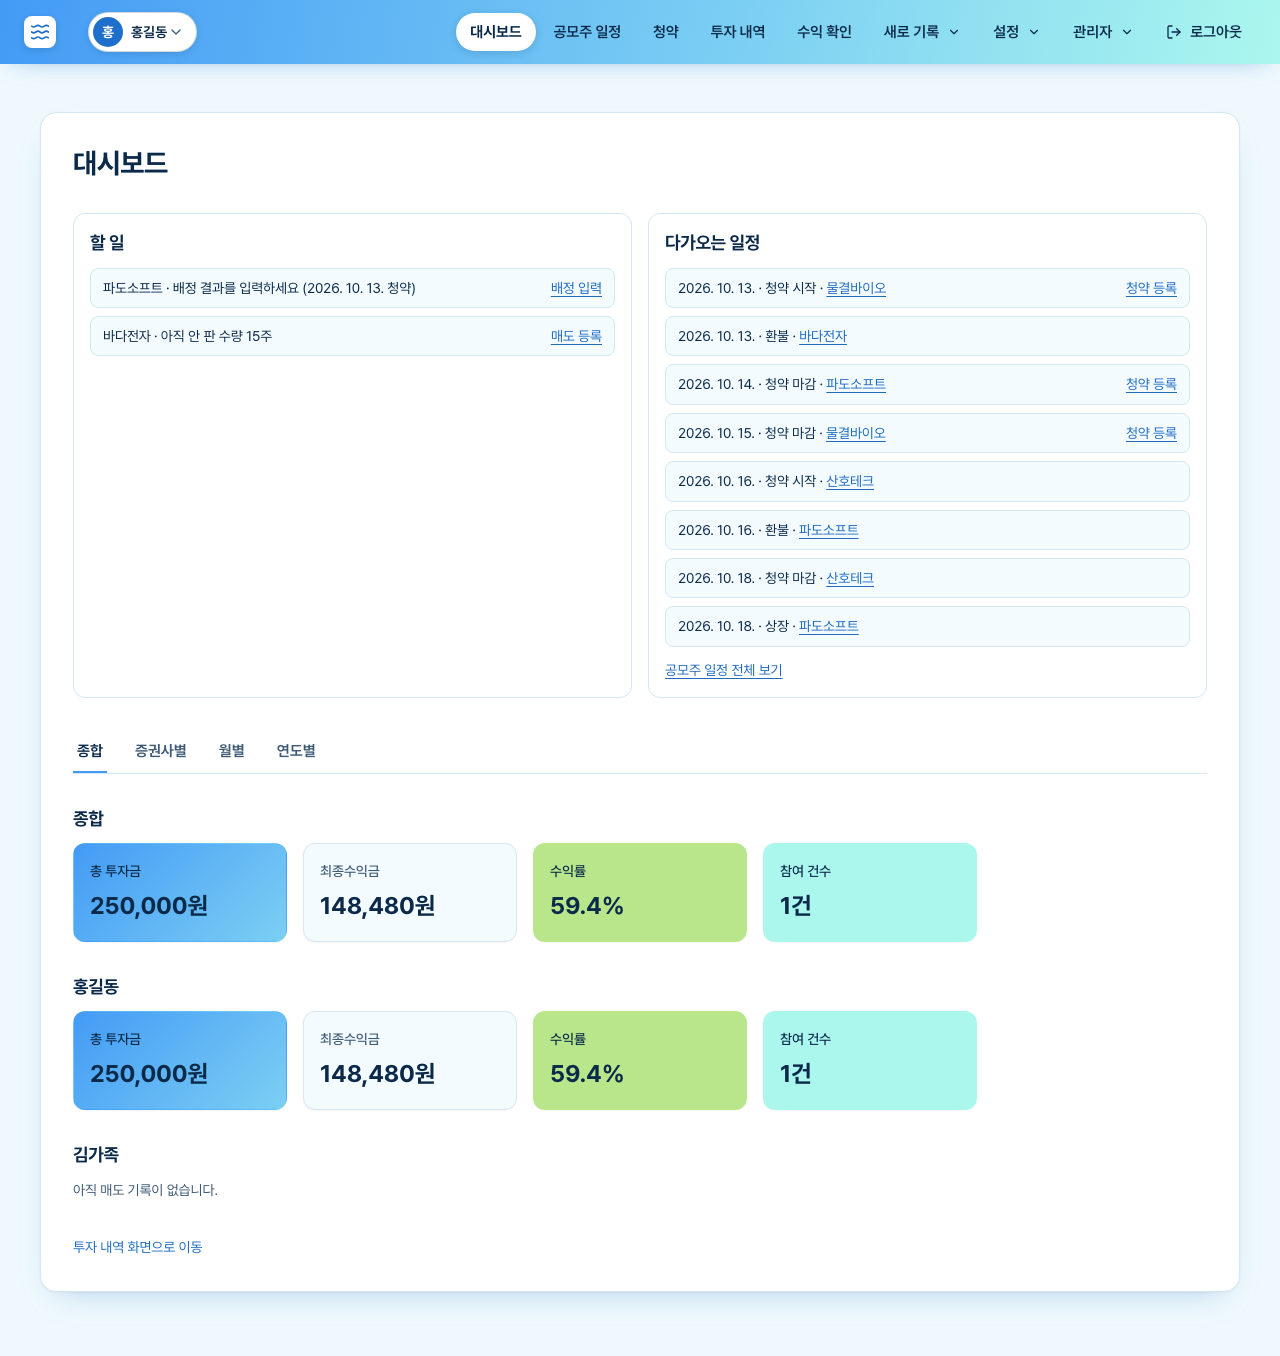
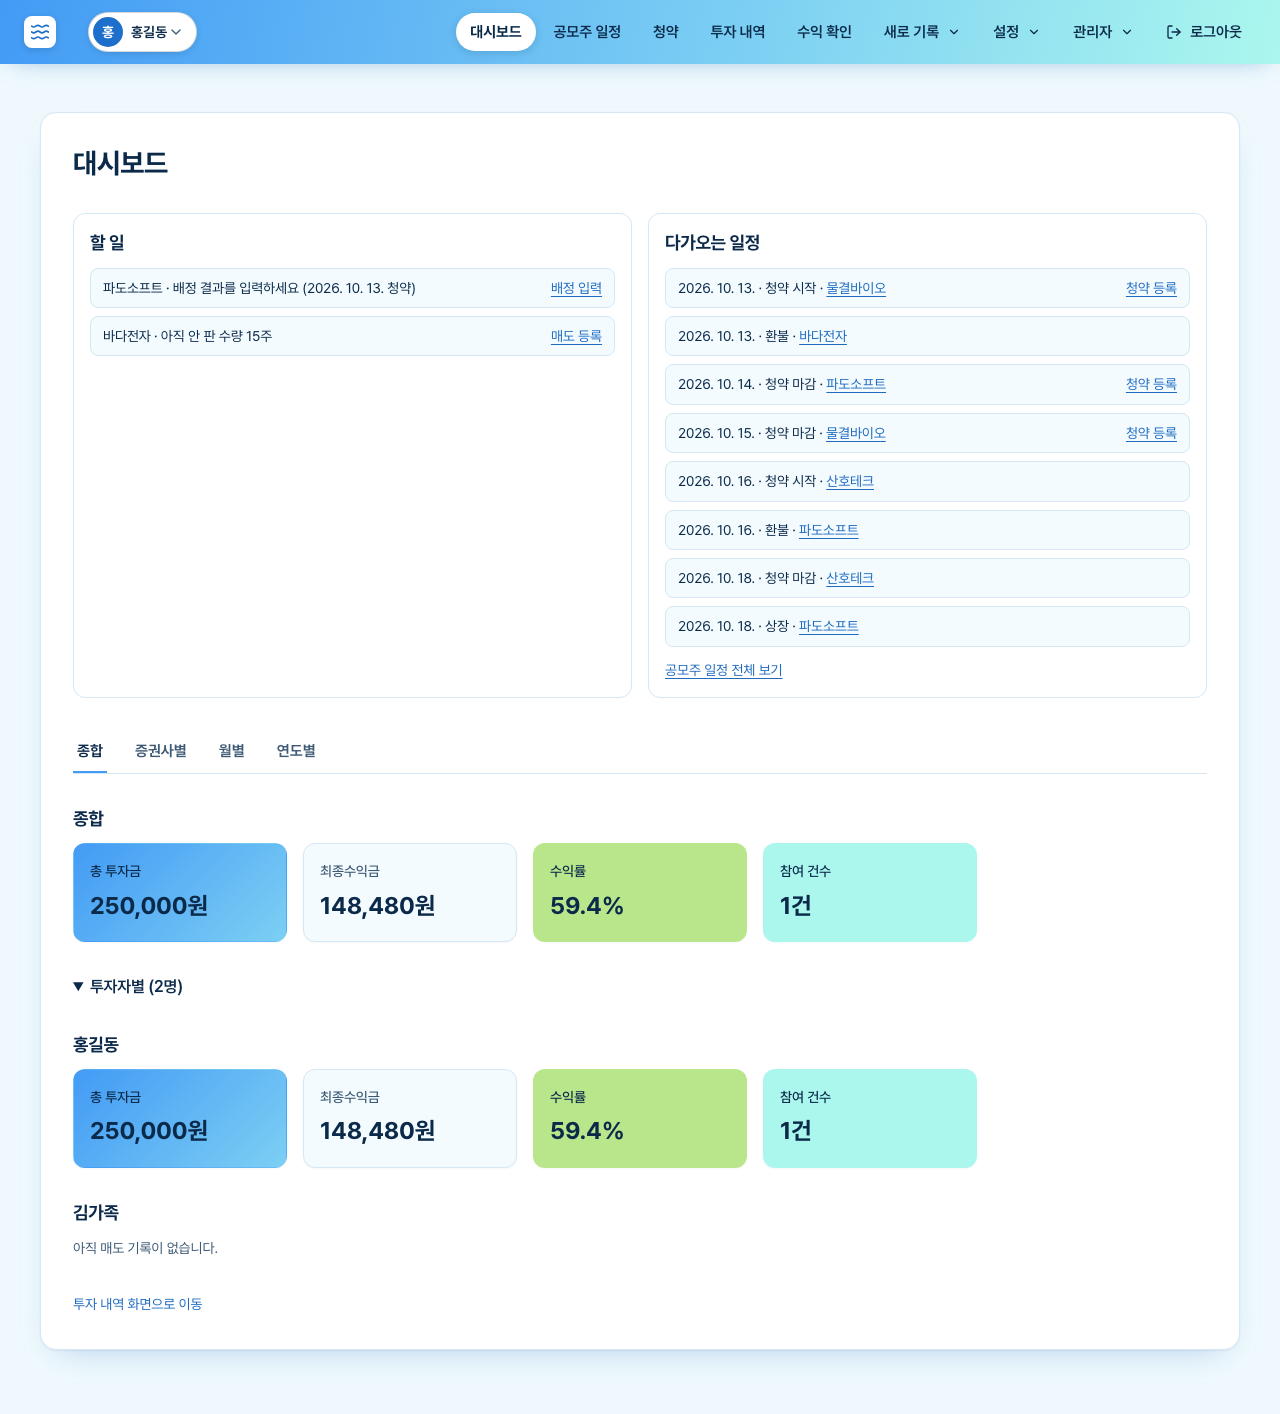
feat: 대시보드 투자자별 구역 접기(4명 이상이면 접힌 채 시작), 가이드를 키움·LS·증권사 관리 기준으로 정리
- 종합 탭의 투자자별 카드를 <details>로 묶음, 투자자 3명 이하는 펼침
- 가이드 7장: 지원 증권사 KIS·키움·LS, 키움 서버 IP 등록·LS 31일 안내, 키 발급일·만료일은 KIS만
- 가이드 8장 설정 메뉴에 증권사 관리, 증권계좌 등록 순서 정정, 대시보드 스크린샷 갱신
- 추적되던 index.html.bak 삭제

diff --git a/docs/user-guides/manual/index.html b/docs/user-guides/manual/index.html
@@ -201,8 +201,8 @@
         <li>투자자를 등록하면 이어서 증권계좌 등록 화면으로 이동합니다.</li>
         <li>증권사를 선택하고 계좌번호를 입력합니다 (10~16자리 숫자, 하이픈은 자동으로 들어갑니다).</li>
         <li>필요 시 계좌명과 기본 계좌 여부를 설정합니다.</li>
-        <li>등록이 끝나면 "등록 완료: 마스킹된 계좌번호" 알림이 뜨고 대시보드로 이동합니다.</li>
         <li>"등록" 버튼을 클릭합니다.</li>
+        <li>등록이 끝나면 "등록 완료: 마스킹된 계좌번호" 알림이 뜨고 대시보드로 이동합니다.</li>
       </ol>
       <div class="table-wrap"><table>
         <thead><tr><th>입력 항목</th><th>필수 여부</th><th>설명</th></tr></thead>
@@ -406,7 +406,7 @@
       <h3>대시보드</h3>
       <p>상단 메뉴 <strong>대시보드</strong> 맨 위에는 <strong>할 일</strong>(현재 투자자의 배정 입력 전 청약 → <strong>배정 입력</strong>, 남은 수량이 있는 배정 → <strong>매도 등록</strong>)과 <strong>다가오는 일정</strong>(오늘부터 7일 안의 청약 시작·마감·환불·상장, 최대 8건, 청약 기간 중이면 <strong>청약 등록</strong>)이 있습니다. 그 아래는 각 구역의 네 가지 카드(총 투자금, 최종수익금, 수익률, 참여 건수)를 한눈에 보여 줍니다. 위쪽 탭으로 집계 기준을 바꿉니다.</p>
       <ul>
-        <li><strong>종합</strong> — 맨 위에 계정 전체 합계, 그 아래로 등록된 투자자별 카드를 차례로 보여 줍니다(매도가 없는 투자자는 "아직 매도 기록이 없습니다." 한 줄)</li>
+        <li><strong>종합</strong> — 맨 위에 계정 전체 합계, 그 아래로 <strong>투자자별 (N명)</strong> 구역에 투자자별 카드를 차례로 보여 줍니다(매도가 없는 투자자는 "아직 매도 기록이 없습니다." 한 줄). 투자자가 4명 이상이면 이 구역은 접힌 채로 시작하고, 제목을 누르면 펼치거나 접습니다</li>
         <li><strong>증권사별</strong> — 증권사별로 나눈 집계</li>
         <li><strong>월별</strong>, <strong>연도별</strong> — 선택한 달 또는 해의 집계. 화면 위쪽에서 <strong>◀ 이전 달 / 다음 달 ▶</strong>(연도별은 이전·다음 연도)로 옮기거나 연도·월을 직접 입력합니다. 달·해는 <strong>공모주 상장일 기준입니다</strong>. 10월에 상장한 공모주는 11월에 팔아도 10월에 잡힙니다.</li>
       </ul>
@@ -441,12 +441,16 @@
     </section>
 
     <section id="broker">
-      <h2>7. 증권사 연동 (한국투자증권)</h2>
-      <p>한국투자증권 계좌의 <strong>매도 내역을 조회해서</strong> 매도 기록을 자동으로 채웁니다. <strong>조회 전용</strong>이라 주문·정정·취소는 하지 않습니다. 입력한 키는 암호화해 서버에 저장하고 화면에 다시 보여주지 않습니다. 현재 지원하는 증권사는 한국투자증권(KIS)뿐이며, 다른 증권사 계좌는 "이 증권계좌의 증권사는 아직 API 연동을 지원하지 않습니다."로 표시됩니다.</p>
+      <h2>7. 증권사 연동 (한국투자증권·키움증권·LS증권)</h2>
+      <p>증권사 계좌의 <strong>매도 내역을 조회해서</strong> 매도 기록을 자동으로 채웁니다. <strong>조회 전용</strong>이라 주문·정정·취소는 하지 않습니다. 입력한 키는 암호화해 서버에 저장하고 화면에 다시 보여주지 않습니다. 지원하는 증권사는 <strong>한국투자증권(KIS)·키움증권·LS증권</strong>이며(오픈 API를 웹으로 제공하는 곳이 이 세 곳입니다), 다른 증권사 계좌는 "이 증권계좌의 증권사는 아직 API 연동을 지원하지 않습니다."로 표시됩니다.</p>
       <div class="warn"><strong>알아 두세요.</strong> 한국투자증권 안내에는 Open API 이용 대상이 본인 자산을 본인 전략으로 쓰는 개인·법인이며, 주문·계좌 연동을 고객에게 제공하는 서비스는 제휴계약이 필요하다는 취지의 문구가 있습니다. 그래서 이 서비스는 일반 공개하지 않고 관리자 승인으로 운영합니다.</div>
 
       <h3>1단계. 증권사에서 키 발급받기</h3>
-      <p>한국투자증권 Open API 개발자센터(KIS Developers)에서 서비스를 신청하면 <strong>APP Key</strong>와 <strong>APP Secret</strong>을 받습니다. 신청 요건은 한국투자증권 계좌 보유와 HTS 서비스 신청입니다. 화면 구성은 증권사 사정으로 바뀔 수 있으니 안내에 따라 진행하세요.</p>
+      <p>한국투자증권 Open API 개발자센터(KIS Developers)에서 서비스를 신청하면 <strong>APP Key</strong>와 <strong>APP Secret</strong>을 받습니다. 신청 요건은 한국투자증권 계좌 보유와 HTS 서비스 신청입니다. 화면 구성은 증권사 사정으로 바뀔 수 있으니 안내에 따라 진행하세요. 아래 사용기간·해지 안내는 한국투자증권 기준입니다.</p>
+      <ul>
+        <li><strong>키움증권</strong>: 키움 REST API 사용 신청으로 앱키·시크릿키를 받습니다. 이 서비스가 돌아가는 <strong>서버의 IP를 키움에 등록</strong>해야 조회가 됩니다(등록하지 않으면 인증 실패가 납니다).</li>
+        <li><strong>LS증권</strong>: LS증권 OPEN API 사용 신청으로 앱키·시크릿키를 받습니다. 하루 단위로만 조회되는 API라 <strong>한 번에 31일까지</strong> 조회할 수 있습니다.</li>
+      </ul>
       <ul>
         <li><strong>사용기간은 신청일부터 1년</strong>입니다. 갱신하면 키가 새로 발급되므로 이 서비스에서도 키를 교체해야 합니다.</li>
         <li>3개월 이상 거래가 없으면 서비스가 해지될 수 있다는 안내가 있습니다. 해지되면 다시 신청합니다.</li>
@@ -457,16 +461,16 @@
       <h3>2단계. 증권계좌 연결하기</h3>
       <ol>
         <li>상단 메뉴 <strong>설정</strong> → <strong>증권사 연동</strong>을 누릅니다.</li>
-        <li><strong>증권계좌</strong>를 고릅니다(투자자는 헤더의 현재 투자자). 증권계좌가 한국투자증권이어야 연결 폼이 나옵니다.</li>
+        <li><strong>증권계좌</strong>를 고릅니다(투자자는 헤더의 현재 투자자). 증권계좌가 한국투자증권·키움증권·LS증권이어야 연결 폼이 나오고, 키움·LS 계좌에는 위 안내가 함께 표시됩니다.</li>
         <li><strong>앱키</strong>와 <strong>앱시크릿</strong>을 입력합니다(입력칸은 가려집니다).</li>
-        <li><strong>키 발급일(증권사 서비스 신청일)</strong>을 확인합니다. 기본은 오늘이며, 실제 신청일과 다르면 고칩니다. 사용기간 만료 안내가 이 날짜에서 계산됩니다.</li>
+        <li>(한국투자증권만) <strong>키 발급일(증권사 서비스 신청일)</strong>을 확인합니다. 기본은 오늘이며, 실제 신청일과 다르면 고칩니다. 사용기간 만료 안내가 이 날짜에서 계산됩니다.</li>
         <li><strong>연결</strong>을 누릅니다.</li>
       </ol>
       <div class="shots">
         <figure><img src="screenshots/broker-register-desktop.png" alt="증권사 API 연결 폼 — 데스크톱" loading="lazy"><figcaption>키 입력 (데스크톱)</figcaption></figure>
         <figure><img src="screenshots/broker-register-mobile.png" alt="증권사 API 연결 폼 — 모바일" loading="lazy"><figcaption>키 입력 (모바일)</figcaption></figure>
       </div>
-      <p>연결되면 상태가 <strong>연결됨</strong>으로 바뀌고 마스킹된 계좌번호와 <strong>사용기간 만료일</strong>이 표시됩니다. 연결할 때는 증권사를 호출하지 않으므로 키가 틀려도 이때는 알 수 없고, 첫 조회에서 확인됩니다.</p>
+      <p>연결되면 상태가 <strong>연결됨</strong>으로 바뀌고 마스킹된 계좌번호와 <strong>사용기간 만료일</strong>(한국투자증권만)이 표시됩니다. 연결할 때는 증권사를 호출하지 않으므로 키가 틀려도 이때는 알 수 없고, 첫 조회에서 확인됩니다.</p>
       <div class="shots">
         <figure><img src="screenshots/broker-connected-desktop.png" alt="연결된 증권사 API 화면 — 데스크톱" loading="lazy"><figcaption>연결됨 (데스크톱)</figcaption></figure>
         <figure><img src="screenshots/broker-connected-mobile.png" alt="연결된 증권사 API 화면 — 모바일" loading="lazy"><figcaption>연결됨 (모바일)</figcaption></figure>
@@ -474,7 +478,7 @@
 
       <h3>3단계. 매도 내역 가져오기</h3>
       <ol>
-        <li><strong>조회 시작일·종료일</strong>을 고릅니다. 기본은 오늘까지 최근 1년이며 최대 10년까지 가능합니다. 기간을 바꾸는 것만으로는 증권사를 호출하지 않습니다.</li>
+        <li><strong>조회 시작일·종료일</strong>을 고릅니다. 기본은 오늘까지 최근 1년이며 최대 10년까지 가능합니다(LS증권은 기본 최근 30일, 최대 31일). 기간을 바꾸는 것만으로는 증권사를 호출하지 않습니다.</li>
         <li><strong>증권사에서 매도 내역 조회</strong>를 누릅니다. 결과 위에 조회한 기간이 표시됩니다.</li>
         <li><strong>매칭된 매도</strong>(내가 등록한 배정과 연결된 건)는 표에서 단가·금액·세금 및 기타·공모주수수료를 고칠 수 있습니다. <strong>세금 및 기타</strong>에는 증권사가 알려 준 수수료와 세금의 합계가, <strong>공모주수수료</strong>에는 기본 2,000원이 들어갑니다(같은 배정의 둘째 매도부터는 0원). 등록할 건만 체크하고 <strong>선택한 N건 매도로 등록</strong>을 누르면 저장됩니다. <strong>확정하기 전에는 아무것도 저장되지 않습니다.</strong></li>
         <li>같은 날 같은 종목의 분할 매도는 증권사가 하루 단위로 합쳐서 알려 줍니다. 단가는 금액÷수량으로 계산한 값이니 필요하면 고칩니다.</li>
@@ -513,7 +517,7 @@
 
     <section id="admin">
       <h2>8. 관리자 기능과 문제 해결</h2>
-      <p>상단 메뉴는 대시보드·공모주 일정·청약·투자 내역·수익 확인과, 펼쳐 쓰는 <strong>새로 기록</strong>(청약 등록·배정 입력·매도 등록)·<strong>설정</strong>(투자자 추가·증권사 연동)으로 되어 있습니다. 관리자 계정으로 로그인하면 <strong>관리자</strong>(가입 승인·공모주 등록)가 더 보입니다(일반 계정에는 보이지 않습니다). 주소창에 사이트 주소만 넣으면 로그인 상태에 따라 대시보드 또는 공모주 일정으로 이동합니다. 화면 오른쪽 끝의 <strong>로그아웃</strong>은 모든 계정에 보이며, 누르면 로그인 화면으로 돌아갑니다.</p>
+      <p>상단 메뉴는 대시보드·공모주 일정·청약·투자 내역·수익 확인과, 펼쳐 쓰는 <strong>새로 기록</strong>(청약 등록·배정 입력·매도 등록)·<strong>설정</strong>(투자자 추가·증권사 관리·증권사 연동)으로 되어 있습니다. 관리자 계정으로 로그인하면 <strong>관리자</strong>(가입 승인·공모주 등록)가 더 보입니다(일반 계정에는 보이지 않습니다). 주소창에 사이트 주소만 넣으면 로그인 상태에 따라 대시보드 또는 공모주 일정으로 이동합니다. 화면 오른쪽 끝의 <strong>로그아웃</strong>은 모든 계정에 보이며, 누르면 로그인 화면으로 돌아갑니다.</p>
       <div class="shots">
         <figure><img src="screenshots/nav-desktop.png" alt="상단 메뉴 — 데스크톱" loading="lazy"><figcaption>상단 메뉴 (데스크톱)</figcaption></figure>
         <figure><img src="screenshots/nav-mobile-menu.png" alt="상단 메뉴 — 모바일 메뉴 열림" loading="lazy"><figcaption>모바일에서는 "메뉴" 버튼으로 엽니다</figcaption></figure>

diff --git a/ui/src/pages/DashboardPage/DashboardPage.tsx b/ui/src/pages/DashboardPage/DashboardPage.tsx
@@ -112,22 +112,30 @@ export default function DashboardPage() {
               </h2>
               <DashboardCardGroup summary={summary} />
             </section>
-            {sections.map((section) => (
-              <section
-                key={section.id}
-                aria-labelledby={`dash-investor-${section.id}`}
-                className={styles.section}
-              >
-                <h2 id={`dash-investor-${section.id}`} className={styles.sectionTitle}>
-                  {section.name}
-                </h2>
-                {section.hasSales ? (
-                  <DashboardCardGroup summary={section.summary} />
-                ) : (
-                  <p className={styles.noSales}>아직 매도 기록이 없습니다.</p>
-                )}
-              </section>
-            ))}
+            {sections.length > 0 && (
+              // 투자자가 많으면 길어지므로 4명 이상일 때는 접힌 채로 시작한다.
+              <details className={styles.investors} open={sections.length <= 3}>
+                <summary className={styles.investorsSummary}>
+                  투자자별 ({sections.length}명)
+                </summary>
+                {sections.map((section) => (
+                  <section
+                    key={section.id}
+                    aria-labelledby={`dash-investor-${section.id}`}
+                    className={styles.section}
+                  >
+                    <h2 id={`dash-investor-${section.id}`} className={styles.sectionTitle}>
+                      {section.name}
+                    </h2>
+                    {section.hasSales ? (
+                      <DashboardCardGroup summary={section.summary} />
+                    ) : (
+                      <p className={styles.noSales}>아직 매도 기록이 없습니다.</p>
+                    )}
+                  </section>
+                ))}
+              </details>
+            )}
           </div>
         )
       }

diff --git a/ui/src/pages/DashboardPage/DashboardPage.test.tsx b/ui/src/pages/DashboardPage/DashboardPage.test.tsx
@@ -239,6 +239,34 @@ describe('DashboardPage', () => {
     // 매도 기록이 없는 투자자는 큰 카드 대신 한 줄 요약
     expect(screen.getByText('아직 매도 기록이 없습니다.')).toBeInTheDocument()
     expect(screen.getAllByText('총 투자금')).toHaveLength(2)
+    expect(screen.getByText('투자자별 (2명)').closest('details')).toHaveAttribute('open')
+  })
+
+  it('투자자가 4명 이상이면 투자자별 구역을 접은 채로 시작한다', async () => {
+    vi.mocked(useDashboardSummary).mockReturnValue(
+      asResult({
+        data: {
+          totalInvestmentAmount: 1,
+          totalPreTaxProfit: 0,
+          totalAfterTaxProfit: 0,
+          totalProfitRate: 0,
+          participationCount: 1,
+        },
+        isLoading: false,
+        error: null,
+      }),
+    )
+    vi.mocked(useDashboardByInvestor).mockReturnValue(
+      asResult({ data: [], isLoading: false, error: null }),
+    )
+    vi.mocked(useInvestors).mockReturnValue(
+      asResult({ data: [1, 2, 3, 4].map((id) => ({ id, displayName: `투자자${id}` })) }),
+    )
+
+    renderPage()
+    await waitForLoaded()
+
+    expect(screen.getByText('투자자별 (4명)').closest('details')).not.toHaveAttribute('open')
   })
 
   it('로딩 상태를 표시함', async () => {

diff --git a/ui/src/pages/DashboardPage/DashboardPage.module.css b/ui/src/pages/DashboardPage/DashboardPage.module.css
@@ -85,3 +85,23 @@
   color: var(--ink-muted);
   font-size: 14px;
 }
+
+.investors {
+  display: flex;
+  flex-direction: column;
+}
+
+.investors[open] > .investorsSummary {
+  margin-bottom: var(--space-6);
+}
+
+.investors > section + section {
+  margin-top: var(--space-6);
+}
+
+.investorsSummary {
+  cursor: pointer;
+  font-size: 16px;
+  font-weight: 600;
+  color: var(--ink);
+}
